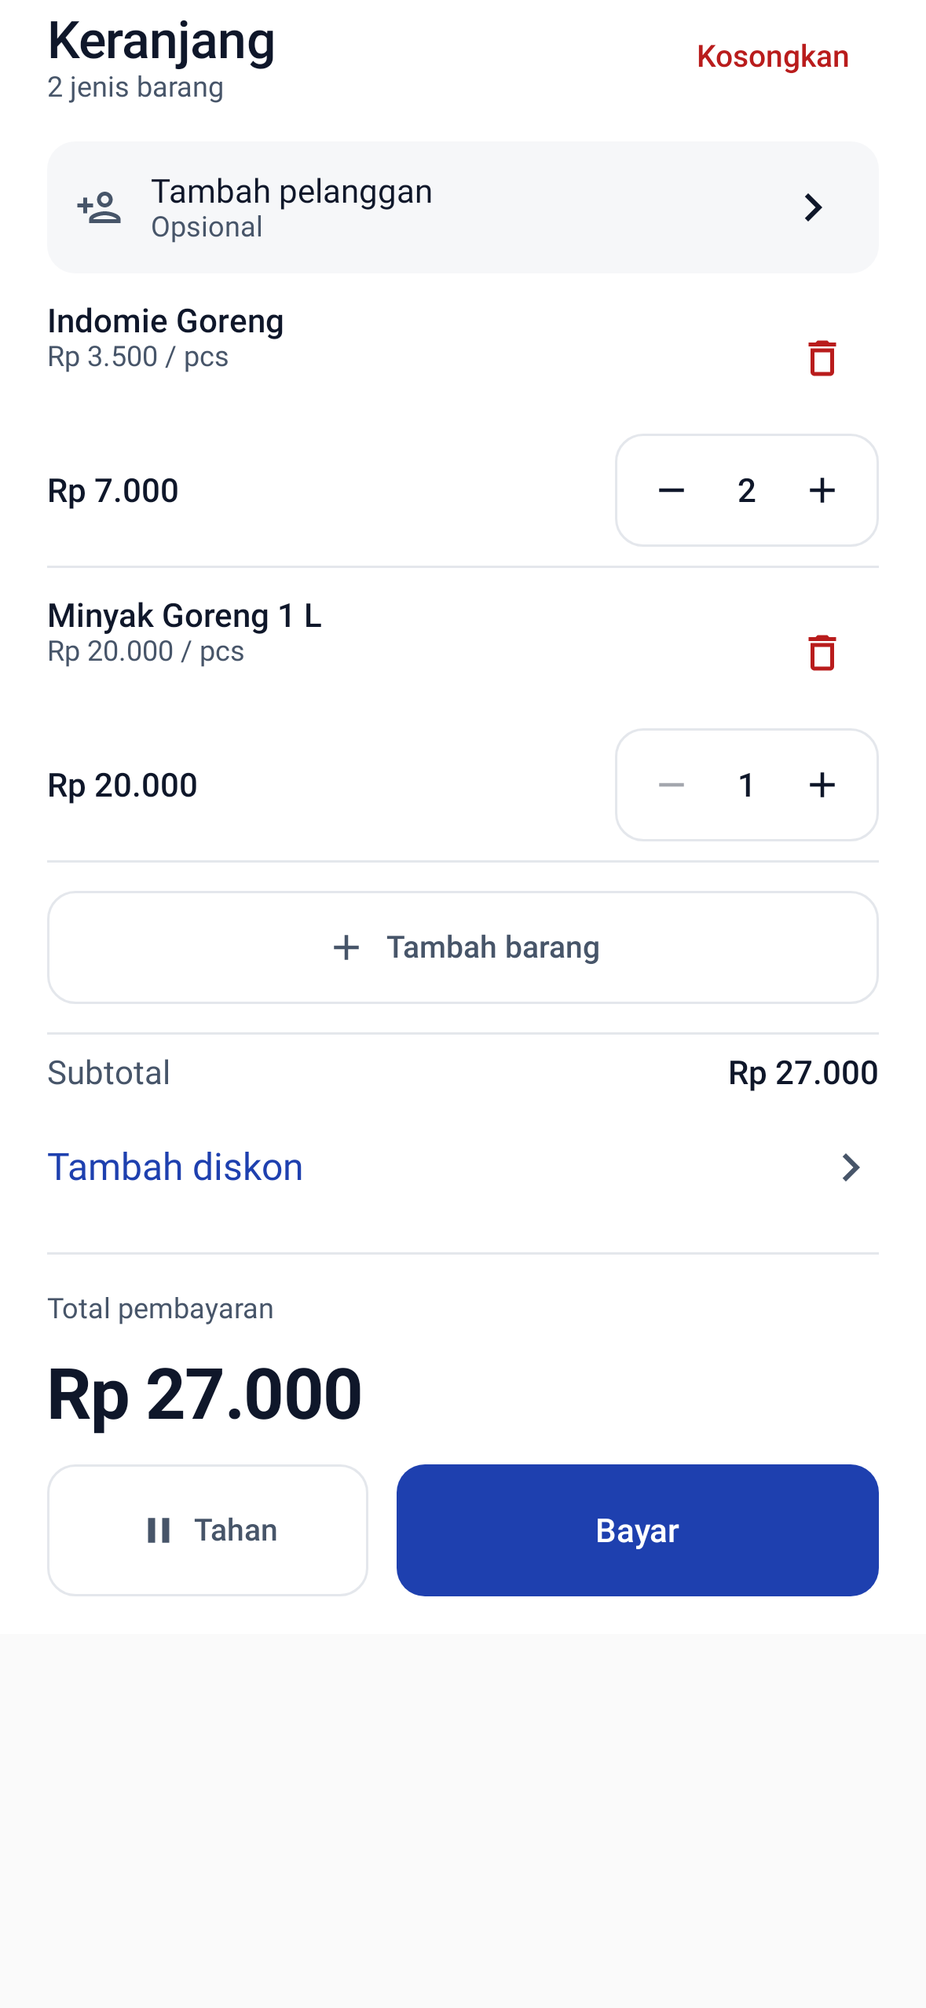
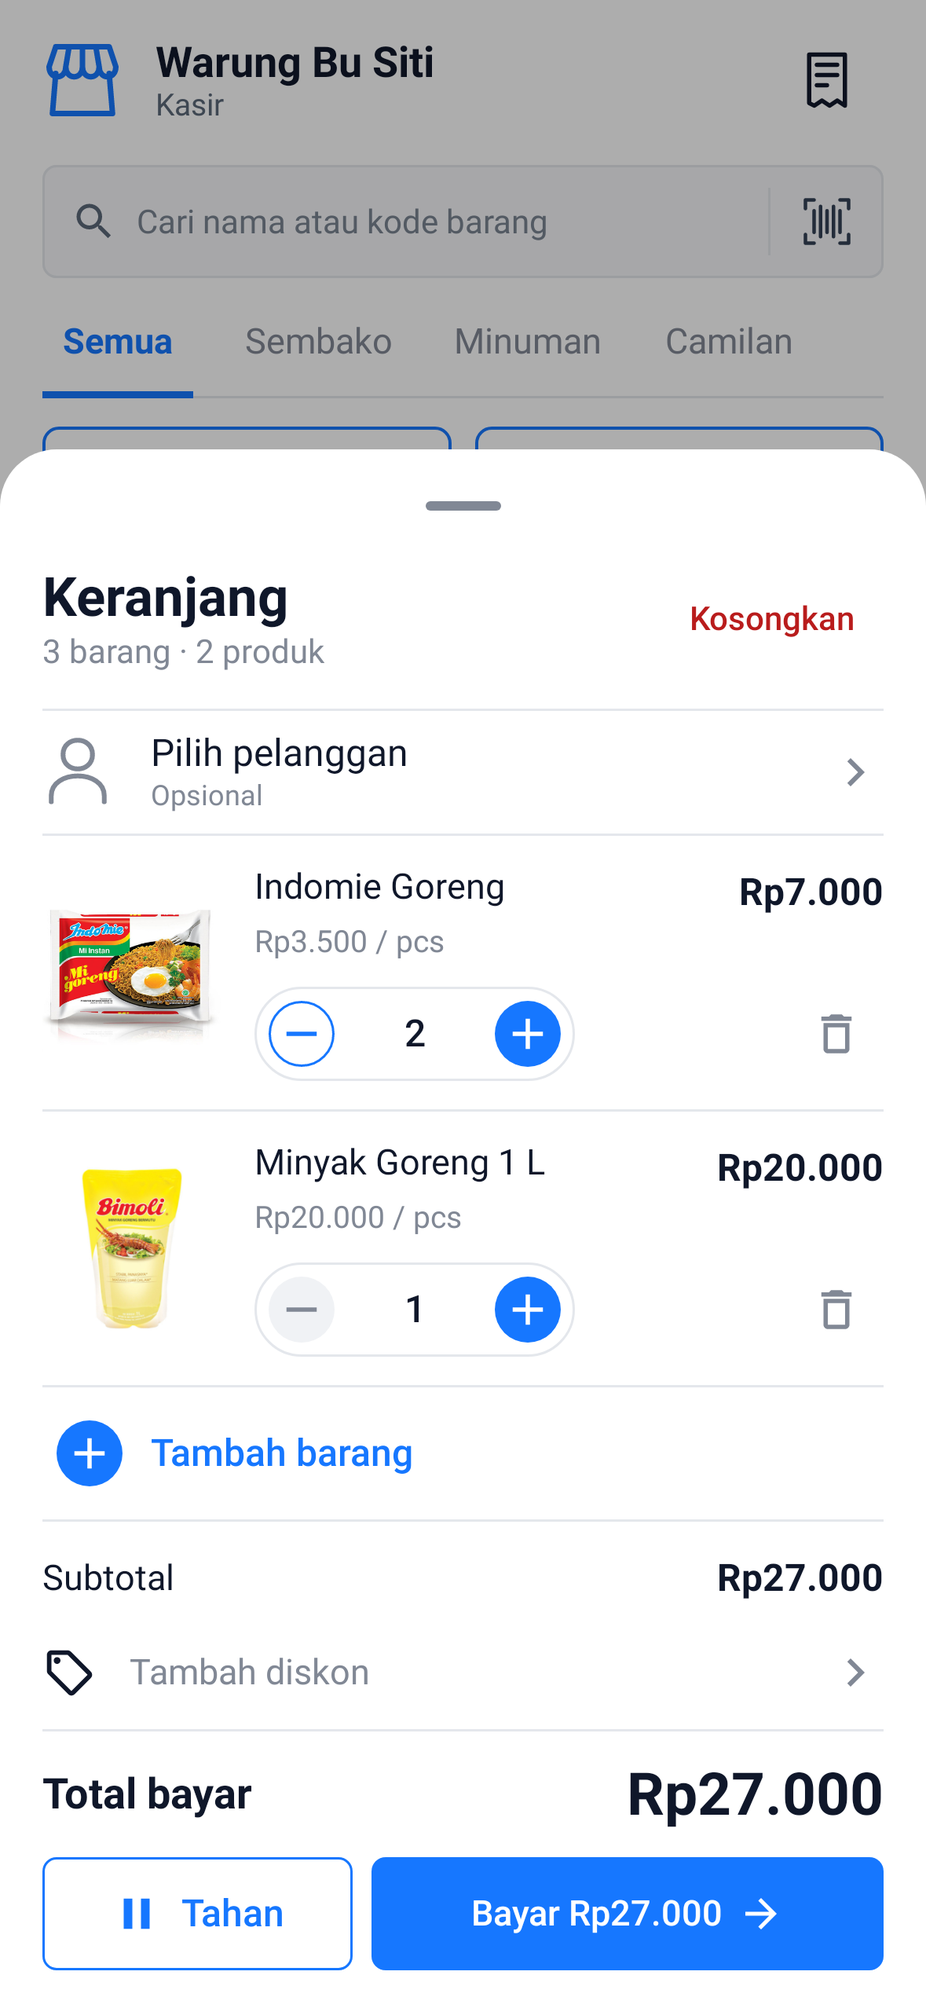
Add verified cashier previews and regression tests; preserve cafe delivery options

diff --git a/app/src/test/java/com/rising/pos/ui/CheckoutUiTest.kt b/app/src/test/java/com/rising/pos/ui/CheckoutUiTest.kt
@@ -4,20 +4,24 @@ import android.app.Application
 import android.graphics.Bitmap
 import android.graphics.Canvas
 import androidx.activity.ComponentActivity
-import org.robolectric.shadows.ShadowDialog
-import java.io.File
-import androidx.compose.material3.Surface
+import androidx.compose.foundation.layout.*
+import androidx.compose.material3.*
+import androidx.compose.runtime.*
+import androidx.compose.ui.Modifier
 import androidx.compose.ui.test.*
 import androidx.compose.ui.test.junit4.createAndroidComposeRule
-import com.rising.pos.core.database.entity.ProductEntity
+import com.rising.pos.core.database.entity.*
 import com.rising.pos.core.datastore.BusinessSettings
-import com.rising.pos.core.util.CurrencyFormatter
 import com.rising.pos.core.model.PaymentMethod
+import com.rising.pos.core.model.OrderType
+import com.rising.pos.core.model.BusinessType
 import com.rising.pos.domain.model.CartItem
 import com.rising.pos.domain.model.CartState
-import com.rising.pos.feature.pos.components.CartView
-import com.rising.pos.feature.pos.components.CheckoutDialog
+import com.rising.pos.feature.pos.PosPhoneCatalog
+import com.rising.pos.feature.pos.components.*
+import com.rising.pos.ui.navigation.*
 import com.rising.pos.ui.theme.RisingPosTheme
+import com.rising.pos.ui.theme.CashierTheme
 import org.junit.Assert.*
 import org.junit.Rule
 import org.junit.Test
@@ -25,6 +29,8 @@ import org.junit.runner.RunWith
 import org.robolectric.RobolectricTestRunner
 import org.robolectric.annotation.Config
 import org.robolectric.annotation.GraphicsMode
+import org.robolectric.shadows.ShadowDialog
+import java.io.File
 
 @RunWith(RobolectricTestRunner::class)
 @Config(sdk = [34], application = Application::class, qualifiers = "w393dp-h852dp-xxhdpi")
@@ -32,61 +38,118 @@ import org.robolectric.annotation.GraphicsMode
 class CheckoutUiTest {
     @get:Rule val compose = createAndroidComposeRule<ComponentActivity>()
     private val settings = BusinessSettings(name = "Warung Bu Siti")
-    private val cart = CartState(items = listOf(
-        CartItem(product = ProductEntity(id = "mie", name = "Indomie Goreng", sellingPrice = 3500), quantity = 2.0),
-        CartItem(product = ProductEntity(id = "minyak", name = "Minyak Goreng 1 L", sellingPrice = 20000))
-    ))
-
-    @Test fun clearCartRequiresConfirmationAndAddProductsReturnsToCatalog() {
-        var cleared = false
-        var addProducts = false
-        compose.setContent {
-            RisingPosTheme(darkTheme = false) {
-                Surface {
-                    CartView(cart, settings, { _, _ -> }, {}, { cleared = true }, {},
-                        onAddProducts = { addProducts = true }, compact = true)
-                }
+    private fun photo(name: String) = File("src/test/resources/products/$name.${if (name == "tea") "png" else "jpg"}").absoluteFile.toURI().toString()
+    private val products = listOf(
+        ProductEntity(id = "mie", name = "Indomie Goreng", sellingPrice = 3500, stock = 50.0, imageUrl = photo("noodles")),
+        ProductEntity(id = "minyak", name = "Minyak Goreng 1 L", sellingPrice = 20000, stock = 50.0, imageUrl = photo("oil")),
+        ProductEntity(id = "gula", name = "Gula Pasir 1 kg", sellingPrice = 17000, stock = 50.0, imageUrl = photo("sugar")),
+        ProductEntity(id = "teh", name = "Teh Botol 350 ml", sellingPrice = 5000, stock = 50.0, imageUrl = photo("tea")),
+        ProductEntity(id = "beras", name = "Beras 5 kg", sellingPrice = 75000, stock = 50.0, imageUrl = photo("rice")),
+        ProductEntity(id = "telur", name = "Telur Ayam 1 kg", sellingPrice = 28000, stock = 50.0, imageUrl = photo("eggs"))
+    )
+    private val cart = CartState(items = listOf(CartItem(product = products[0], quantity = 2.0), CartItem(product = products[1])))
+    private val categories = listOf("Sembako", "Minuman", "Camilan").map { CategoryEntity(it, it) }
+    @Composable
+    private fun Catalog(onCart: () -> Unit = {}, onPay: () -> Unit = {}, onProduct: (ProductEntity) -> Unit = {}, onCategory: (String?) -> Unit = {}) {
+        Column {
+            Box(Modifier.weight(1f)) {
+                PosPhoneCatalog(settings, products.map { ProductWithCategory(it, null) }, categories, cart, "", null, 0,
+                    {}, {}, {}, onCategory, onProduct, {}, onCart, onPay)
             }
+            PosBottomNavBar(phoneNavigationItems, "pos", {})
         }
-        savePreview("cart")
-        compose.onNodeWithText("Tambah barang").performScrollTo().performClick()
-        assertTrue(addProducts)
-        compose.onNodeWithText("Kosongkan").performClick()
-        assertFalse(cleared)
-        compose.onNodeWithText("Kosongkan keranjang?").assertIsDisplayed()
-        compose.onNodeWithText("Batal").performClick()
-        assertFalse(cleared)
-        compose.onNodeWithText("Bayar").assertIsDisplayed()
     }
-
-    @Test fun paymentRequiresSufficientCashAndQuickAmountReplacesInput() {
-        var paid = 0L
-        compose.setContent {
-            RisingPosTheme(darkTheme = false) {
-                CheckoutDialog(cart, settings, false, null, {}, { method, amount, _, _ ->
-                    assertEquals(PaymentMethod.CASH, method)
-                    paid = amount
-                })
+    @Test fun catalogHasSeparateCartAndPayActionsAndFourDestinations() {
+        var opened = false; var paid = false; var added = ""; var selected: String? = null
+        compose.setContent { RisingPosTheme(darkTheme = false) { Catalog({ opened = true }, { paid = true }, { added = it.id }, { selected = it }) } }
+        awaitPhotos()
+        compose.onNodeWithText("Rp28.000").assertIsDisplayed()
+        savePreview("catalog")
+        compose.onNodeWithContentDescription("Lihat keranjang").performClick(); assertTrue(opened)
+        compose.onNodeWithText("Bayar Rp27.000").performClick(); assertTrue(paid)
+        compose.onNodeWithContentDescription("Tambah Indomie Goreng").performClick(); assertEquals("mie", added)
+        compose.onNodeWithText("Minuman").performClick(); assertEquals("Minuman", selected)
+        compose.onNodeWithText("Lainnya").performClick()
+        compose.onNodeWithText("Laporan").assertIsDisplayed()
+        compose.onNodeWithText("Pengaturan").assertIsDisplayed()
+    }
+    @OptIn(ExperimentalMaterial3Api::class)
+    @Test fun cartQuantityDeleteClearAndAddProductsWork() {
+        var cleared = false; var addProducts = false; var changed = 0.0; var removed = ""
+        compose.setContent { RisingPosTheme(darkTheme = false) { CashierTheme {
+            Catalog()
+            ModalBottomSheet(onDismissRequest = {}, sheetState = rememberModalBottomSheetState(skipPartiallyExpanded = true), containerColor = MaterialTheme.colorScheme.surface) {
+                CartView(cart, settings, { _, delta -> changed = delta }, { removed = it }, { cleared = true }, {},
+                    onAddProducts = { addProducts = true }, compact = true)
             }
-        }
+        } } }
+        awaitPhotos(); savePreview("cart")
+        compose.onAllNodesWithContentDescription("Kurangi Indomie Goreng")[1].performClick(); assertEquals(-1.0, changed, 0.0)
+        compose.onAllNodesWithContentDescription("Kurangi Minyak Goreng 1 L")[1].assertIsNotEnabled()
+        compose.onNodeWithContentDescription("Hapus Indomie Goreng").performClick(); assertEquals(cart.items[0].cartItemId, removed)
+        compose.onNodeWithText("Tambah barang").performScrollTo().performClick(); assertTrue(addProducts)
+        compose.onNodeWithText("Kosongkan").performClick(); assertFalse(cleared)
+        compose.onNodeWithText("Batal").performClick(); assertFalse(cleared)
+        compose.onAllNodesWithText("Bayar Rp27.000")[1].assertIsDisplayed()
+    }
+    @Test fun paymentKeypadValidatesCashAndPresetsReplaceInput() {
+        var paid = 0L
+        compose.setContent { RisingPosTheme(darkTheme = false) {
+            CheckoutDialog(cart, settings, false, null, {}, { method, amount, _, _ -> assertEquals(PaymentMethod.CASH, method); paid = amount })
+        } }
+        compose.onNodeWithText("Rp50.000").performClick()
+        compose.onNodeWithText("Rp23.000").assertIsDisplayed()
+        compose.onNodeWithTag("key_delete").assertIsDisplayed()
         savePreview("payment")
-        compose.onNodeWithText("Nominal uang tunai").performScrollTo().performTextReplacement("10000")
+        compose.onNodeWithTag("key_1").performScrollTo().performClick()
+        compose.onNodeWithTag("key_000").performScrollTo().performClick()
+        compose.onNodeWithText("Uang kurang").performScrollTo().assertIsDisplayed()
         compose.onNodeWithText("Selesaikan pembayaran").assertIsNotEnabled()
         compose.onNodeWithText("Uang pas").performScrollTo().performClick()
         compose.onNodeWithText("Selesaikan pembayaran").assertIsEnabled()
-        compose.onNodeWithText(CurrencyFormatter.format(50000L, settings.currencySymbol)).performScrollTo().performClick()
-        compose.onNodeWithText("Nominal uang tunai").assertTextContains("50000")
+        compose.onNodeWithText("Rp50.000").performClick()
+        compose.onNodeWithText("Selesaikan pembayaran").performClick(); assertEquals(50000L, paid)
+    }
+    @Test fun cafeDeliveryAndOrderNotesRemainAvailableInDetails() {
+        var submittedType: OrderType? = null; var submittedNote: String? = null
+        compose.setContent { RisingPosTheme(darkTheme = false) {
+            CheckoutDialog(cart.copy(note = "Antar sore"), settings.copy(type = BusinessType.CAFE, isTableEnabled = false), false, null, {},
+                { _, _, type, note -> submittedType = type; submittedNote = note })
+        } }
+        compose.onNodeWithText("Lihat rincian").performClick()
+        compose.onNodeWithText("Nomor meja").assertDoesNotExist()
+        compose.onNodeWithText("Diantar").performScrollTo().performClick()
+        compose.onNodeWithText("QRIS").performScrollTo().performClick()
         compose.onNodeWithText("Selesaikan pembayaran").performClick()
-        assertEquals(50000L, paid)
+        assertEquals(OrderType.DELIVERY, submittedType)
+        assertEquals("Antar sore", submittedNote)
+    }
+    @Test fun processingBlocksPaymentAndNonCashUsesExactTotal() {
+        var method: PaymentMethod? = null; var paid = 0L; var processing by mutableStateOf(false)
+        compose.setContent { RisingPosTheme(darkTheme = false) {
+            CheckoutDialog(cart, settings, processing, null, {}, { m, amount, _, _ -> method = m; paid = amount })
+        } }
+        compose.onNodeWithText("QRIS").performClick()
+        compose.onNodeWithText("Selesaikan pembayaran").performClick()
+        assertEquals(PaymentMethod.QRIS, method); assertEquals(27000L, paid)
+        compose.runOnIdle { processing = true }
+        compose.onNodeWithText("Tunai").assertIsNotEnabled()
+        compose.onNodeWithContentDescription("Kembali ke kasir").assertIsNotEnabled()
+    }
+    private fun awaitPhotos() {
+        compose.waitUntil(10000) { compose.onAllNodesWithTag("loaded_Indomie Goreng", useUnmergedTree = true).fetchSemanticsNodes().isNotEmpty() }
+        compose.waitUntil(10000) { compose.onAllNodesWithTag("loaded_Telur Ayam 1 kg", useUnmergedTree = true).fetchSemanticsNodes().isNotEmpty() }
+        compose.waitForIdle()
     }
     private fun savePreview(name: String) {
         compose.runOnIdle {
             val dialog = ShadowDialog.getLatestDialog()?.takeIf { it.isShowing }
             val view = dialog?.window?.decorView ?: compose.activity.window.decorView
             val bitmap = Bitmap.createBitmap(view.width, view.height, Bitmap.Config.ARGB_8888)
-            view.draw(Canvas(bitmap))
-            val file = File("build/ui-previews/$name.png")
-            file.parentFile?.mkdirs()
+            val canvas = Canvas(bitmap)
+            if (dialog != null) compose.activity.window.decorView.draw(canvas)
+            view.draw(canvas)
+            val file = File("build/ui-previews/$name.png"); file.parentFile?.mkdirs()
             file.outputStream().use { bitmap.compress(Bitmap.CompressFormat.PNG, 100, it) }
         }
     }

diff --git a/app/src/main/java/com/rising/pos/feature/pos/components/CheckoutDialog.kt b/app/src/main/java/com/rising/pos/feature/pos/components/CheckoutDialog.kt
@@ -93,11 +93,11 @@ fun CheckoutDialog(cart: CartState, settings: BusinessSettings, isProcessing: Bo
                     cart.customer?.let { Text("Pelanggan: ${it.name}", fontSize = 13.sp) }
                     if (settings.type == BusinessType.CAFE || settings.isTableEnabled) {
                         FlowRow(horizontalArrangement = Arrangement.spacedBy(6.dp)) {
-                            listOf(OrderType.DINE_IN, OrderType.TAKEAWAY).forEach { type ->
-                                OptionChip(if (type == OrderType.DINE_IN) "Makan di tempat" else "Bawa pulang", selectedOrderType == type, enabled = !isProcessing) { selectedOrderType = type }
+                            listOf(OrderType.DINE_IN to "Makan di tempat", OrderType.TAKEAWAY to "Bungkus", OrderType.DELIVERY to "Diantar").forEach { (type, label) ->
+                                OptionChip(label, selectedOrderType == type, enabled = !isProcessing) { selectedOrderType = type }
                             }
                         }
-                        if (selectedOrderType == OrderType.DINE_IN) OutlinedTextField(tableNumber, { tableNumber = it }, label = { Text("Nomor meja") }, enabled = !isProcessing, modifier = Modifier.fillMaxWidth())
+                        if (settings.isTableEnabled && selectedOrderType == OrderType.DINE_IN) OutlinedTextField(tableNumber, { tableNumber = it }, label = { Text("Nomor meja") }, enabled = !isProcessing, modifier = Modifier.fillMaxWidth())
                     }
                     OutlinedTextField(orderNote, { orderNote = it }, label = { Text("Catatan pesanan (opsional)") }, enabled = !isProcessing, modifier = Modifier.fillMaxWidth())
                     FlowRow(horizontalArrangement = Arrangement.spacedBy(8.dp)) {

diff --git a/app/src/test/java/com/rising/pos/ui/CashKeyInputTest.kt b/app/src/test/java/com/rising/pos/ui/CashKeyInputTest.kt
@@ -1,0 +1,22 @@
+package com.rising.pos.ui
+
+import com.rising.pos.feature.pos.components.cashKeyInput
+import org.junit.Assert.assertEquals
+import org.junit.Test
+
+class CashKeyInputTest {
+    @Test fun aPresetIsReplacedByTheFirstDigitThenThousandsAppend() {
+        val first = cashKeyInput("50000", "2", true)
+        assertEquals("2", first)
+        assertEquals("2000", cashKeyInput(first, "000", false))
+    }
+    @Test fun deleteRemovesOneDigitAndNeverLeavesAnEmptyAmount() {
+        assertEquals("5000", cashKeyInput("50000", "delete", true))
+        assertEquals("0", cashKeyInput("1", "delete", false))
+        assertEquals("0", cashKeyInput("0", "000", false))
+    }
+    @Test fun oversizedOrUnknownInputCannotOverflowMoney() {
+        assertEquals("999999999999", cashKeyInput("999999999999", "9", false))
+        assertEquals("1000", cashKeyInput("1000", "-", false))
+    }
+}

diff --git a/docs/MOBILE_UI_REDESIGN.md b/docs/MOBILE_UI_REDESIGN.md
@@ -1,34 +1,30 @@
-# Mobile UI redesign
+# Cashier UI reference implementation
 
-This implementation follows the available mockup descriptions and the blue/neutral palette in `DESIGN.md`. The original mockup images were not available in this checkout, so exact visual matching remains a review step.
+This revision focuses on the three images supplied by the owner: the phone catalog, cart bottom sheet, and payment page. It supersedes the approximate cashier layout from PR #1.
 
-## Interaction changes
+## Changes
 
-- The mobile catalog opens **Lihat keranjang**, then payment. Category chips and 48dp quantity controls share the same visual language.
-- The cart wraps short orders, scrolls its contents when needed, and keeps totals and **Tahan / Bayar** visible. Removing a line has its own button; clearing the whole order requires confirmation. **Tambah barang** returns to the catalog.
-- Checkout and the success receipt are full pages on phones and constrained panels on tablets. Receipt sharing and printing are secondary actions; **Transaksi baru** is primary.
-- Quick cash amounts replace the amount received, with **Uang pas** for exact payment. Insufficient cash disables completion.
-- Product creation has a persistent save button, stable add/edit titles, required name and selling price, and expandable SKU/barcode/variant settings. Product search now includes SKU as its placeholder promises.
-- History has today/7-day/all-date filters backed by a date-range query, without the former 100-row cap. Revenue in the filtered summary includes completed transactions only. Held orders are now reachable through the status filter.
-- Reports add a real-data sales chart, payment totals, and CSV export through the Android document picker. The chart shows dates with completed sales; all-time reports group by month. Existing split-payment records are attributed to their recorded primary method, as indicated in the UI.
-- Bottom navigation uses native selection semantics and the app palette. Settings use consistent Indonesian labels and theme colors.
+- White canvas, bright blue accent, thin outline icons, underlined category tabs, and compact two-column product cards.
+- Product photographs read the existing `ProductEntity.imageUrl`. The product form now supports choosing/removing a photograph through Android's document picker, and editing a product preserves its image URI. Missing/unavailable photographs show an outlined product placeholder.
+- Selected cards have a pale blue quantity bar; unselected cards have a circular add button. The sticky cart header opens the cart, and **Bayar [total]** opens checkout directly.
+- Four phone navigation destinations: **Kasir, Produk, Riwayat, Lainnya**. Lainnya exposes reports, inventory, expenses, customers, and settings.
+- Cart sheet includes customer selection, product thumbnails, quantities, line totals, deletion, add products, discounts, subtotal, and a fixed **Tahan / Bayar [total]** footer. Clear-cart confirmation remains in place.
+- Payment uses three method tiles, a large cash amount, exact/50,000/100,000 presets, a live change/shortfall strip, and a dedicated numeric keypad. Insufficient cash disables payment; processing disables the main payment controls.
+- **Lihat rincian** expands line items and additional options, including order notes, cafe/table controls, debit and split payments. Existing payment recording and tax/service calculations are retained.
 
-## Review on a device
+## Validation
 
-Check a small portrait phone, large text, dark mode, landscape and tablet. Walk through product selection, variants, cart quantities, discounts, hold/resume, cash/non-cash checkout, printer errors, sharing, form validation, history filters, and report export.
-
-Product images still use the existing category placeholders; a photo management feature is outside these layout changes. Business calculations, payment recording, printer integration, and database schema are retained.
-
-## Validation completed
-
-- Debug APK assembled successfully (`:app:assembleDebug`).
-- 33 existing/new non-UI tests passed, including the date-range query regression covering more than 100 transactions.
-- Both Compose UI tests passed on Robolectric API 34: cart clear confirmation / return to catalog, and insufficient cash / quick nominal selection.
-- Rendered cart and checkout screens were visually inspected. These are simulator renders, not photos of a physical device.
+- `:app:assembleDebug` succeeded.
+- All **41 unit and Compose UI tests** passed on Robolectric API 34, including cart actions, navigation access, cash keypad/presets, insufficient cash, non-cash payment totals, and processing controls.
+- Catalog, cart and payment were rendered at 393 × 852 dp and visually inspected. Tests check that the final catalog price and bottom keypad row remain visible at this size.
 - `git diff --check` passed.
 
-The environment required a temporary Java 17 JDK, Android SDK 36, and an offline Robolectric Android 14 runtime. Those machine-specific paths are not part of the project configuration.
+These are native Android simulator renders. Android system bars, font rendering, and product photographs differ from the iOS-style reference artwork. Product photographs in the screenshots are test fixtures; their provenance is recorded in `app/src/test/resources/products/README.md`. Production products use their own selected images, and example products/prices are not added to the database.
 
-| Cart content | Payment page |
-| --- | --- |
-| ![Cart content](ui-previews/cart.png) | ![Payment page](ui-previews/payment.png) |
+Physical-device, tablet, large-font and dark-mode visual checks remain outside this simulator verification. Shorter screens retain scrolling with a fixed payment action. Persisted photo URIs depend on the selected document remaining available on the device.
+
+| Catalog | Cart sheet | Payment |
+| --- | --- | --- |
+| ![Catalog](ui-previews/catalog.png) | ![Cart sheet](ui-previews/cart.png) | ![Payment](ui-previews/payment.png) |
+
+The earlier changes to reports, history, settings and other screens remain from PR #1; this revision does not claim to match additional mockups.

diff --git a/app/src/test/resources/products/README.md b/app/src/test/resources/products/README.md
@@ -1,0 +1,14 @@
+# Visual test fixtures
+
+These product photographs are test-only examples, not production assets or seeded products. Production cards read `ProductEntity.imageUrl`, including photos chosen through Android's document picker. The fixture prices are fixed UI examples, not the prices on the source listings.
+
+Source URLs retrieved for visual testing:
+
+- `noodles.jpg`: https://cdn.store-assets.com/s/377840/i/17811423.jpg — Citimart / Indomie
+- `oil.jpg`: https://down-id.img.susercontent.com/file/id-11134207-82251-miyn2om7yf4685 — Bimoli product listing on Shopee
+- `sugar.jpg`: https://image.astronauts.cloud/product-images/2026/7/SusGulaPasirPutih1kg_50f699cb-1a3f-45b8-b21b-1a5f82749185_900x900.jpg — Astro
+- `rice.jpg`: https://down-id.img.susercontent.com/file/id-11134207-822wl-mpoo4z134npc8c — Sania product listing on Shopee
+- `tea.png`: https://siliwangibolukukus.com/wp-content/uploads/2020/09/teh-botol.png — Siliwangi Bolu Kukus
+- `eggs.jpg`: https://image.astronauts.cloud/product-images/2026/9/TelurAyamNegeriAstroFarm1_55ce9dfb-31de-4afb-b36d-1ea35f75105c_900x900.jpg — Astro
+
+Brands and photographs belong to their respective owners. These representative packages differ from the artwork in the supplied UI references.
